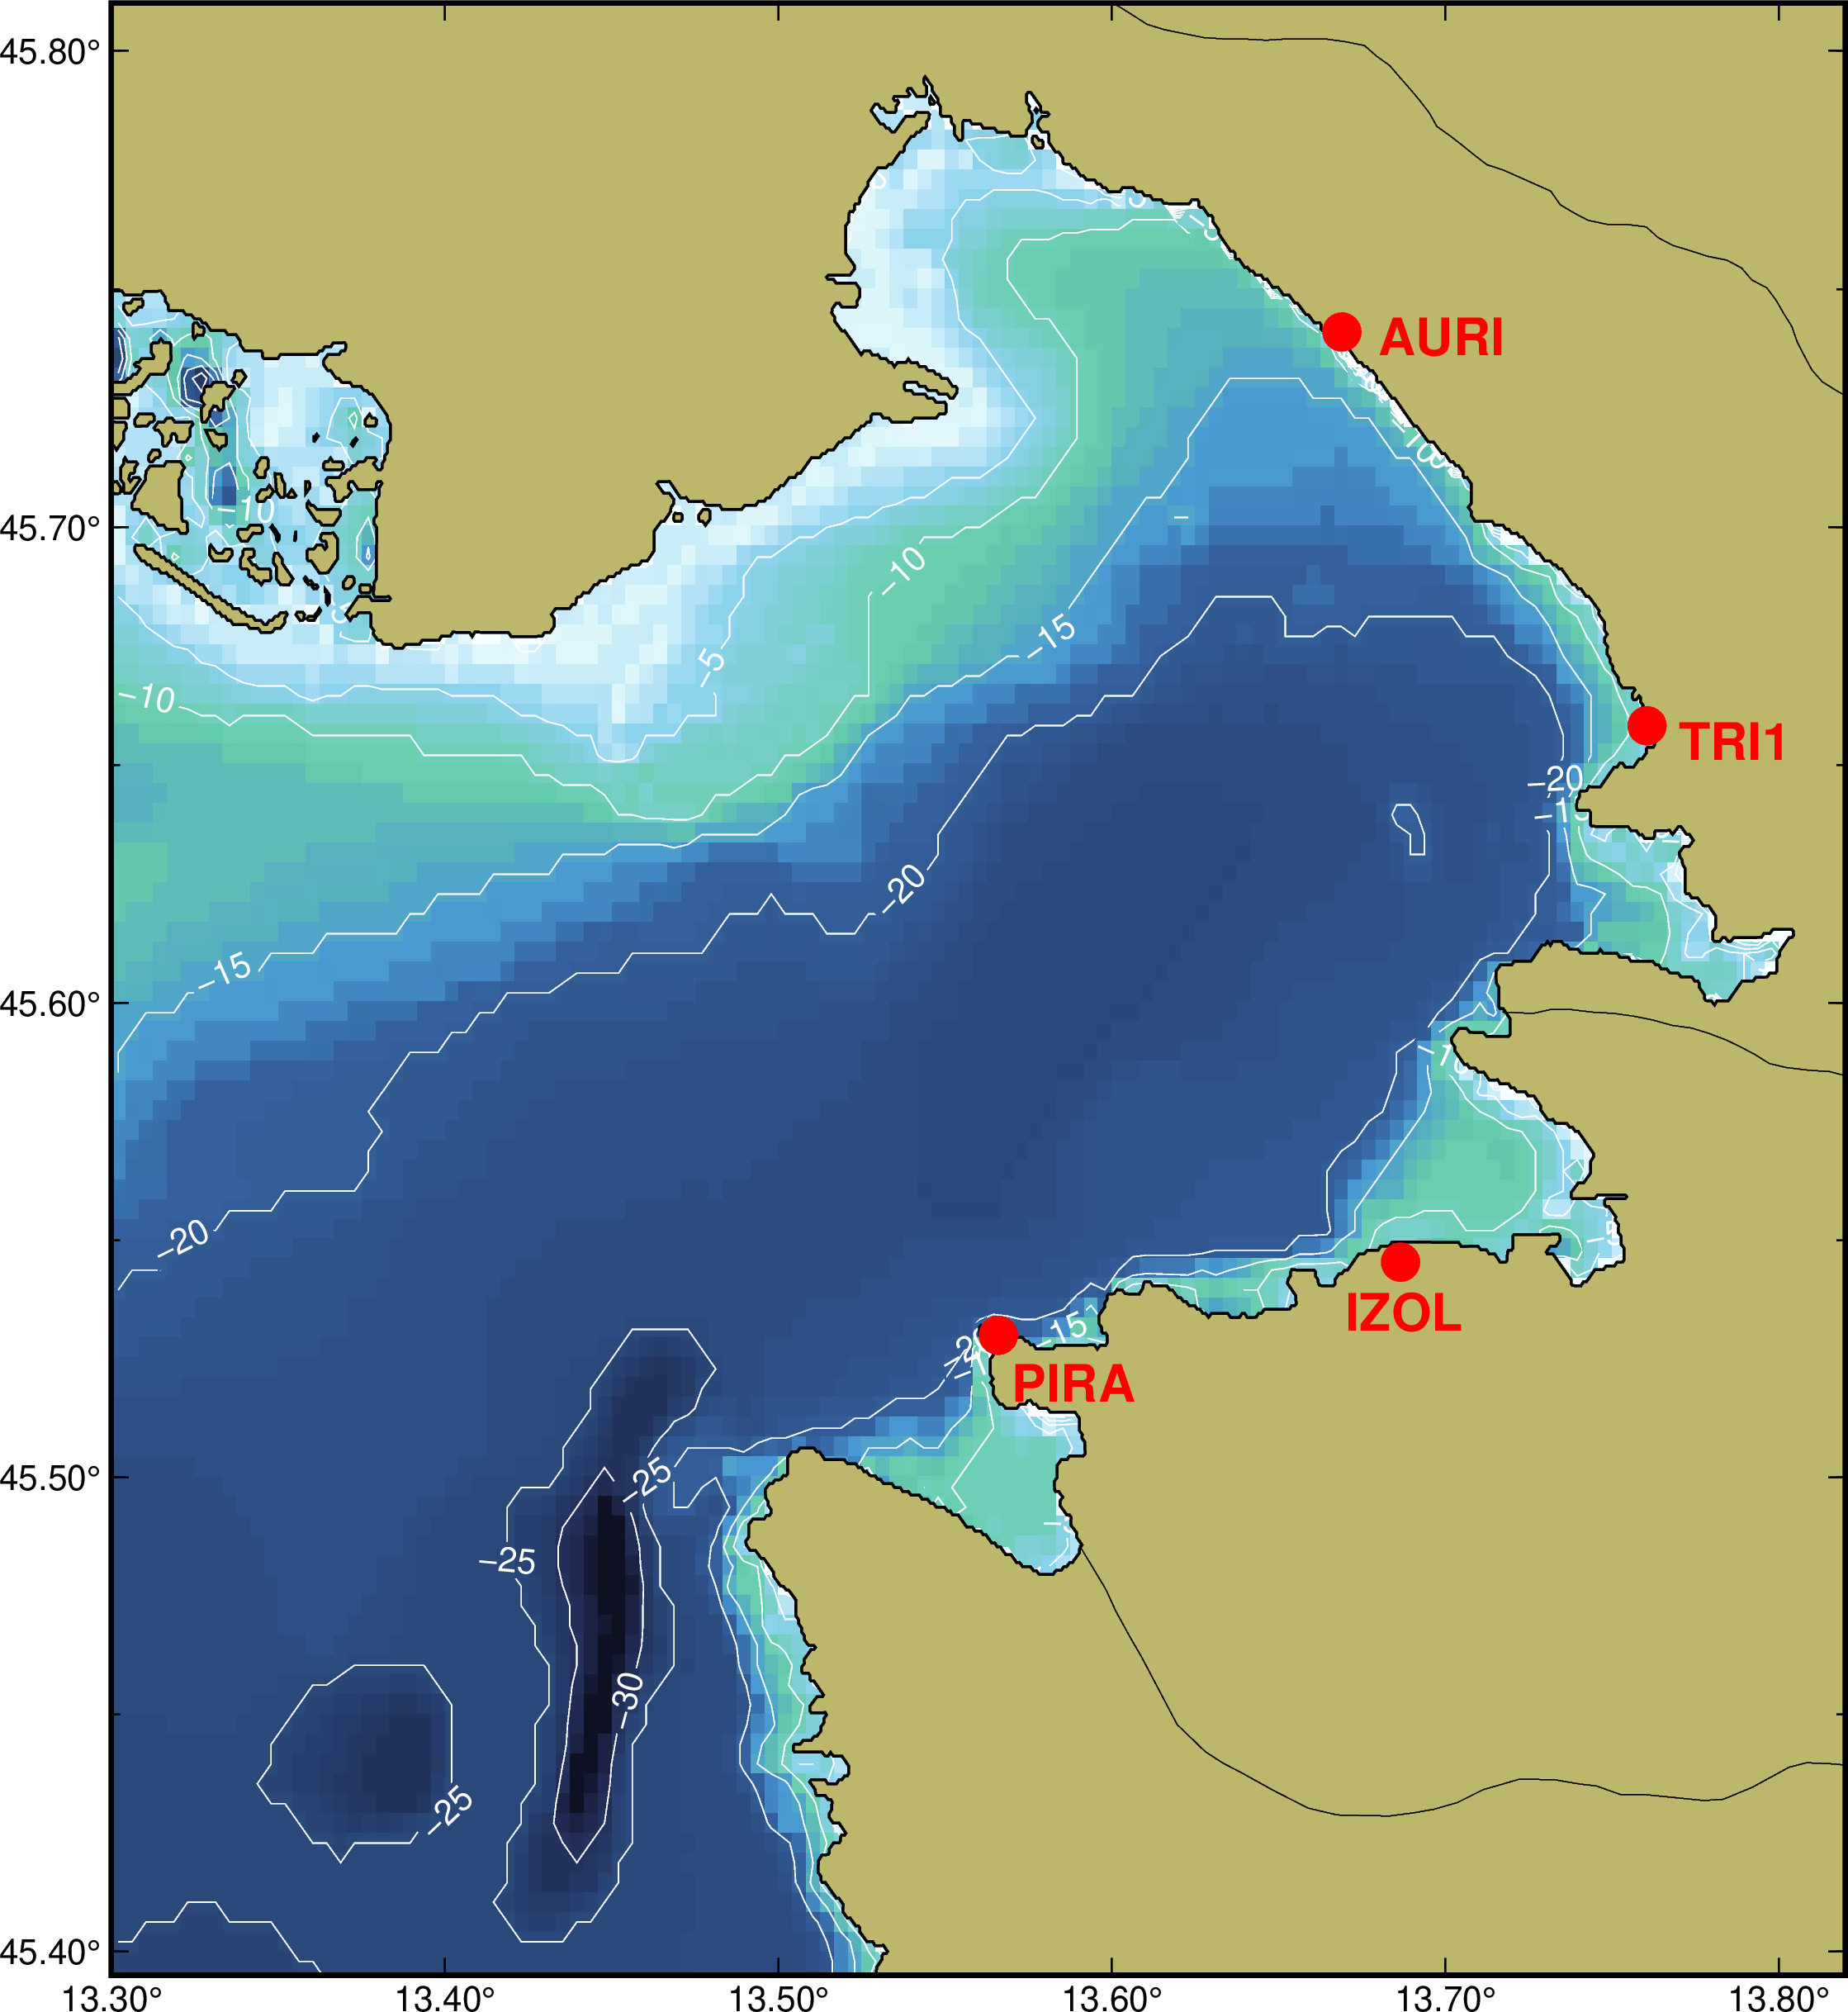
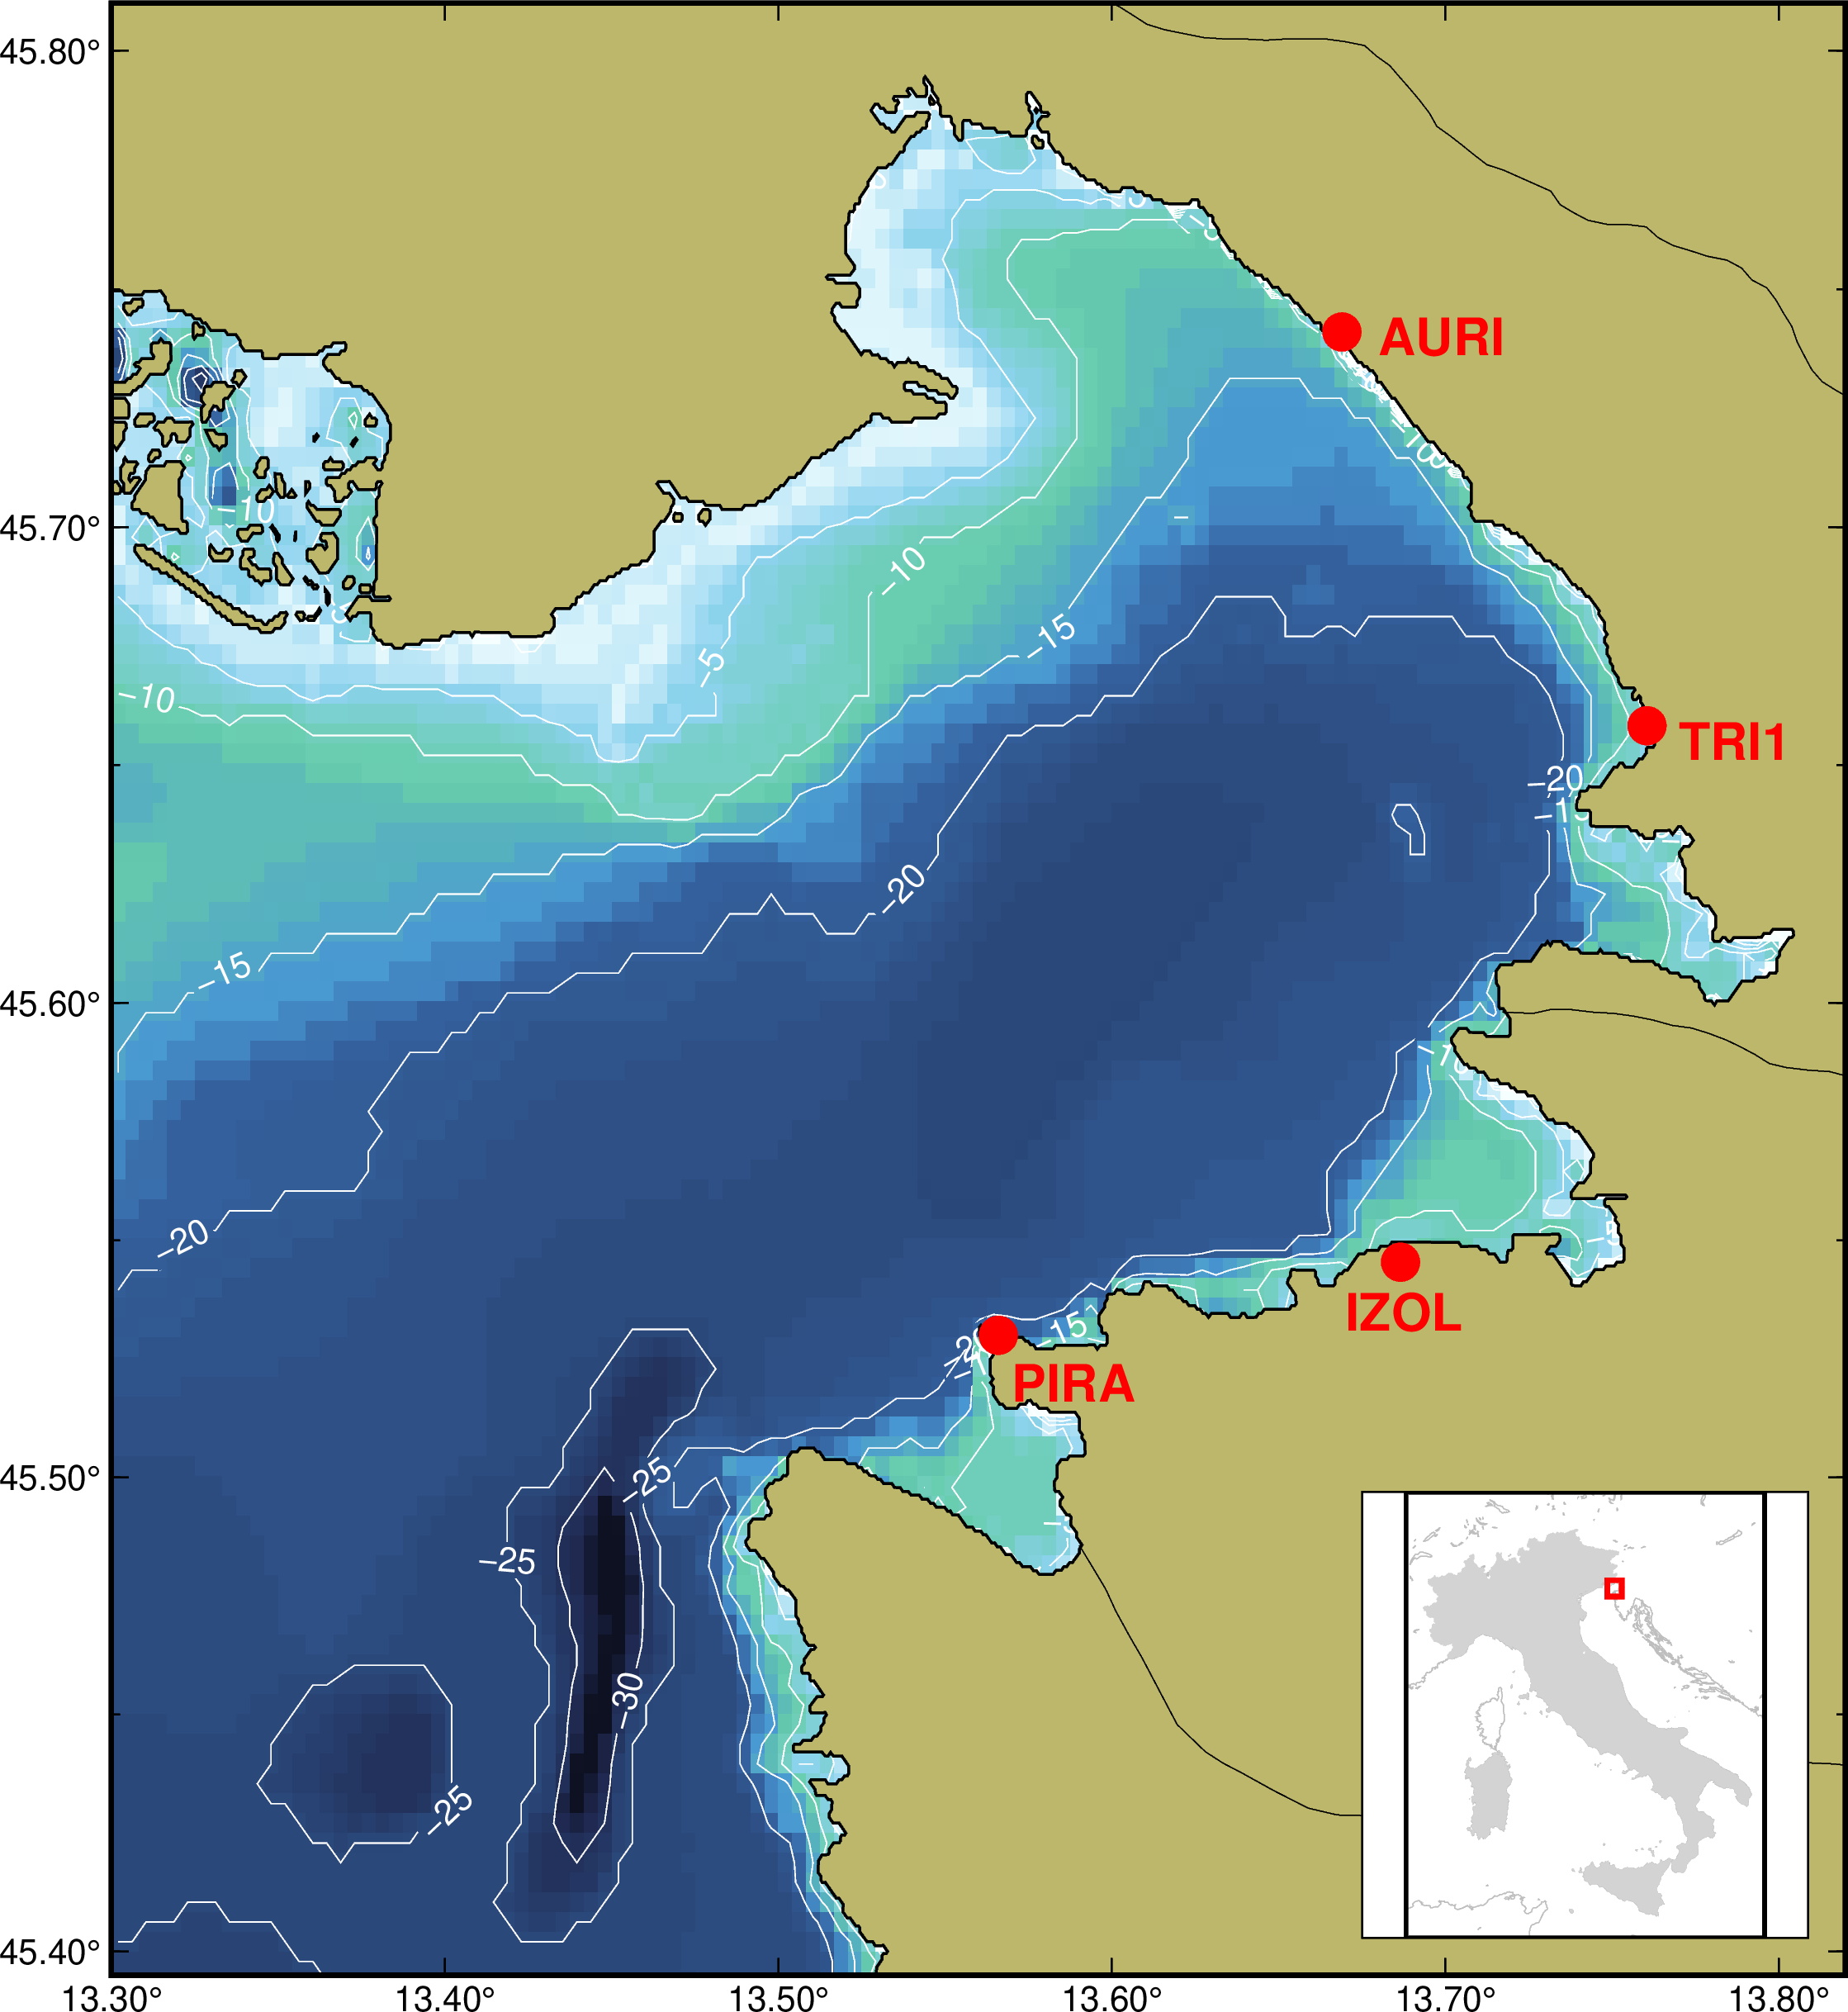
Add WP1 system inventory report, update station map
- wp1.pdf: WP1 Sklop 1 Task 1 report (metadata inventory) — station
  locations, frequencies, resolution, measured variables, QC thresholds,
  data availability
- got_map.png/map.html: refreshed GEBCO bathymetry visualization

Changed region(s): [[0.7091, 0.7176, 0.9866, 0.9672]]

diff --git a/map.html b/map.html
@@ -1,7 +1,7 @@
-<img src='got_map.png' usemap='#station_map' style='width:2236px;'>
+<img src='got_map.png' usemap='#station_map' style='width:2238px;'>
 <map name='station_map'>
-  <area shape='circle' coords='1151,1579,25' href='#' title='Station ID: PIRA&#10;Network ID: HFR-NAdr&#10;Institution Name: ARSO&#10;Longitude: 13.566&#10;Latitude: 45.53&#10;Frequency: 24.525 MHz&#10;Manufacturer: WERA' onclick='return false;'>
-  <area shape='circle' coords='1894,881,25' href='#' title='Station ID: TRI1&#10;Network ID: HFR-NAdr&#10;Institution Name: ARPA&#10;Longitude: 13.7605&#10;Latitude: 45.6583&#10;Frequency: 24.525 MHz&#10;Manufacturer: WERA' onclick='return false;'>
-  <area shape='circle' coords='1612,1496,25' href='#' title='Station ID: IZOL&#10;Network ID: HFR-NAdr&#10;Institution Name: NIB&#10;Longitude: 13.6866&#10;Latitude: 45.5454&#10;Frequency: 24.5 MHz&#10;Manufacturer: WERA' onclick='return false;'>
-  <area shape='circle' coords='1544,431,25' href='#' title='Station ID: AURI&#10;Network ID: HFR-NAdr&#10;Institution Name: OGS&#10;Longitude: 13.669&#10;Latitude: 45.741&#10;Frequency: 24.635 MHz&#10;Manufacturer: WERA' onclick='return false;'>
+  <area shape='circle' coords='1212,1613,25' href='#' title='Station ID: PIRA&#10;Network ID: HFR-NAdr&#10;Institution Name: ARSO&#10;Longitude: 13.566&#10;Latitude: 45.53&#10;Frequency: 24.525 MHz&#10;Manufacturer: WERA' onclick='return false;'>
+  <area shape='circle' coords='1997,875,25' href='#' title='Station ID: TRI1&#10;Network ID: HFR-NAdr&#10;Institution Name: ARPA&#10;Longitude: 13.7605&#10;Latitude: 45.6583&#10;Frequency: 24.525 MHz&#10;Manufacturer: WERA' onclick='return false;'>
+  <area shape='circle' coords='1699,1524,25' href='#' title='Station ID: IZOL&#10;Network ID: HFR-NAdr&#10;Institution Name: NIB&#10;Longitude: 13.6866&#10;Latitude: 45.5454&#10;Frequency: 24.5 MHz&#10;Manufacturer: WERA' onclick='return false;'>
+  <area shape='circle' coords='1628,398,25' href='#' title='Station ID: AURI&#10;Network ID: HFR-NAdr&#10;Institution Name: OGS&#10;Longitude: 13.669&#10;Latitude: 45.741&#10;Frequency: 24.635 MHz&#10;Manufacturer: WERA' onclick='return false;'>
 </map>

diff --git a/README.md b/README.md
@@ -9,3 +9,12 @@ station map and downloadable current data (2021-present).
 `src/` and `scripts/` contain the pipeline used to download and unify the
 data from the [EU HFR Node ERDDAP](https://erddap.hfrnode.eu/erddap/) — see
 `environment.yml` for the required Python environment.
+
+## Updates
+
+- **2026-07-16**: Added the WP1 system inventory report (`wp1.pdf`) —
+  station metadata, operating frequencies/resolution, measured variables,
+  QC test thresholds, and data availability for the HFR-NAdr network
+  (2015-2026, currents; 2021-present publicly available). Updated the
+  station map (`got_map.png`) with a refreshed GEBCO bathymetry
+  visualization.